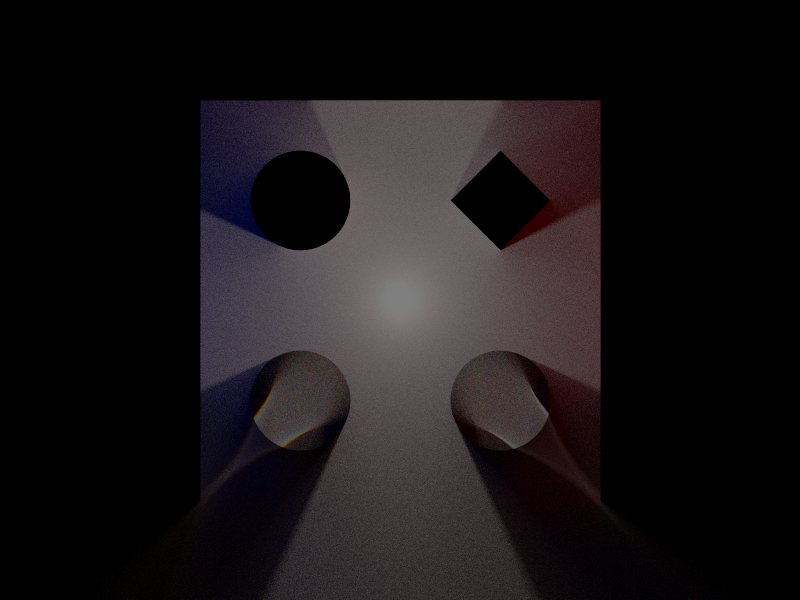
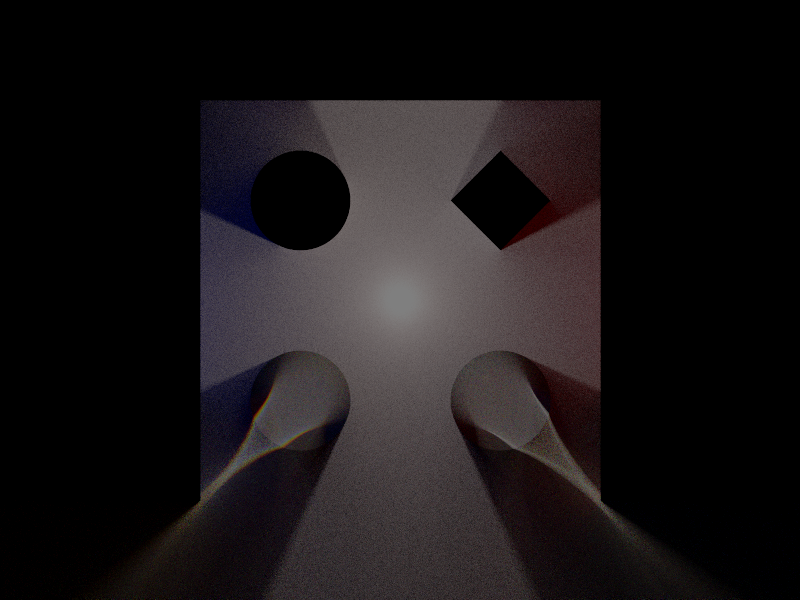
doc

diff --git a/2d/README.md b/2d/README.md
@@ -47,10 +47,6 @@ Visible spectrum. Top: colored emission light. Bottom: white light + colored abs
  ![diffraction_dispersion.png](diffration_dispersion.png)
 
 
- Diffraction used to be much brighter at some point... not sure what happened
- ![diffraction_dispersion_old.png](diffration_dispersion_old.png)
-
-
 Test scene with 200 spheres emission, absorption, diffraction. Probably faster some day with space partitioning
 ![stress_test](stress_test.png)
 
